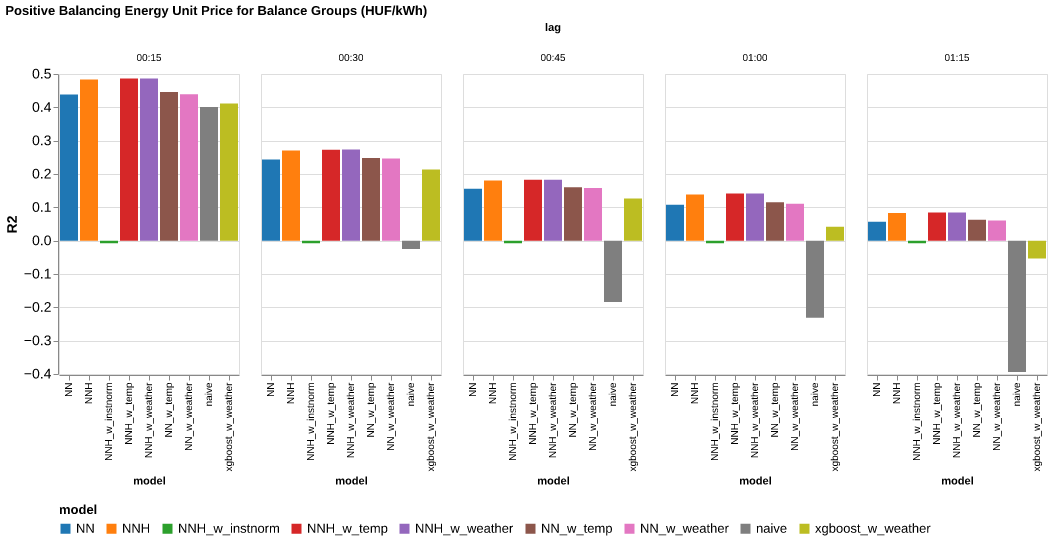
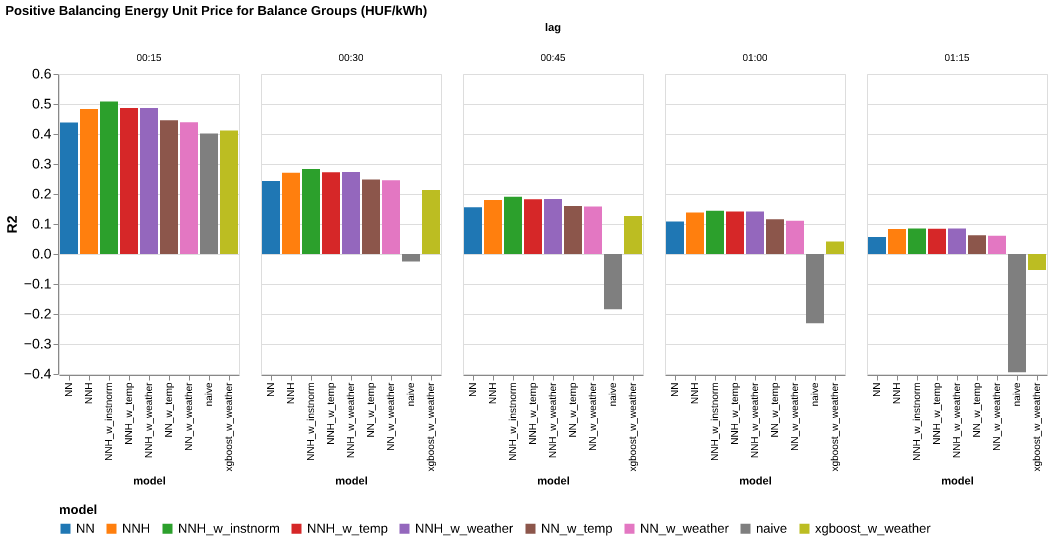
new instnorm plots

diff --git a/plot_results.py b/plot_results.py
@@ -85,7 +85,7 @@ results = {
     "NNH": unpivot_errors(pl.read_csv("model_results/NN_100_seeds_Huber_joined_df.csv")),
     "NNH_w_temp": unpivot_errors(pl.read_csv("model_results/NN_100_seeds_Huber_joined_df_with_temp.csv")),
     "NNH_w_weather": unpivot_errors(pl.read_csv("model_results/NN_100_seeds_Huber_joined_df_with_weather.csv")),
-    "NNH_w_instnorm": unpivot_errors(pl.read_csv("model_results/NN_100_seeds_Huber_instance_norm_joined_df_with_weather.csv")),
+    "NNH_w_instnorm": unpivot_errors(pl.read_csv("model_results/NN_100_seeds_Huber_instance_norm_joined_df_with_weather_11-4.csv")),
     "naive": unpivot_errors(pl.read_csv("model_results/naive_model.csv")),
 }
 compare_results(results)
